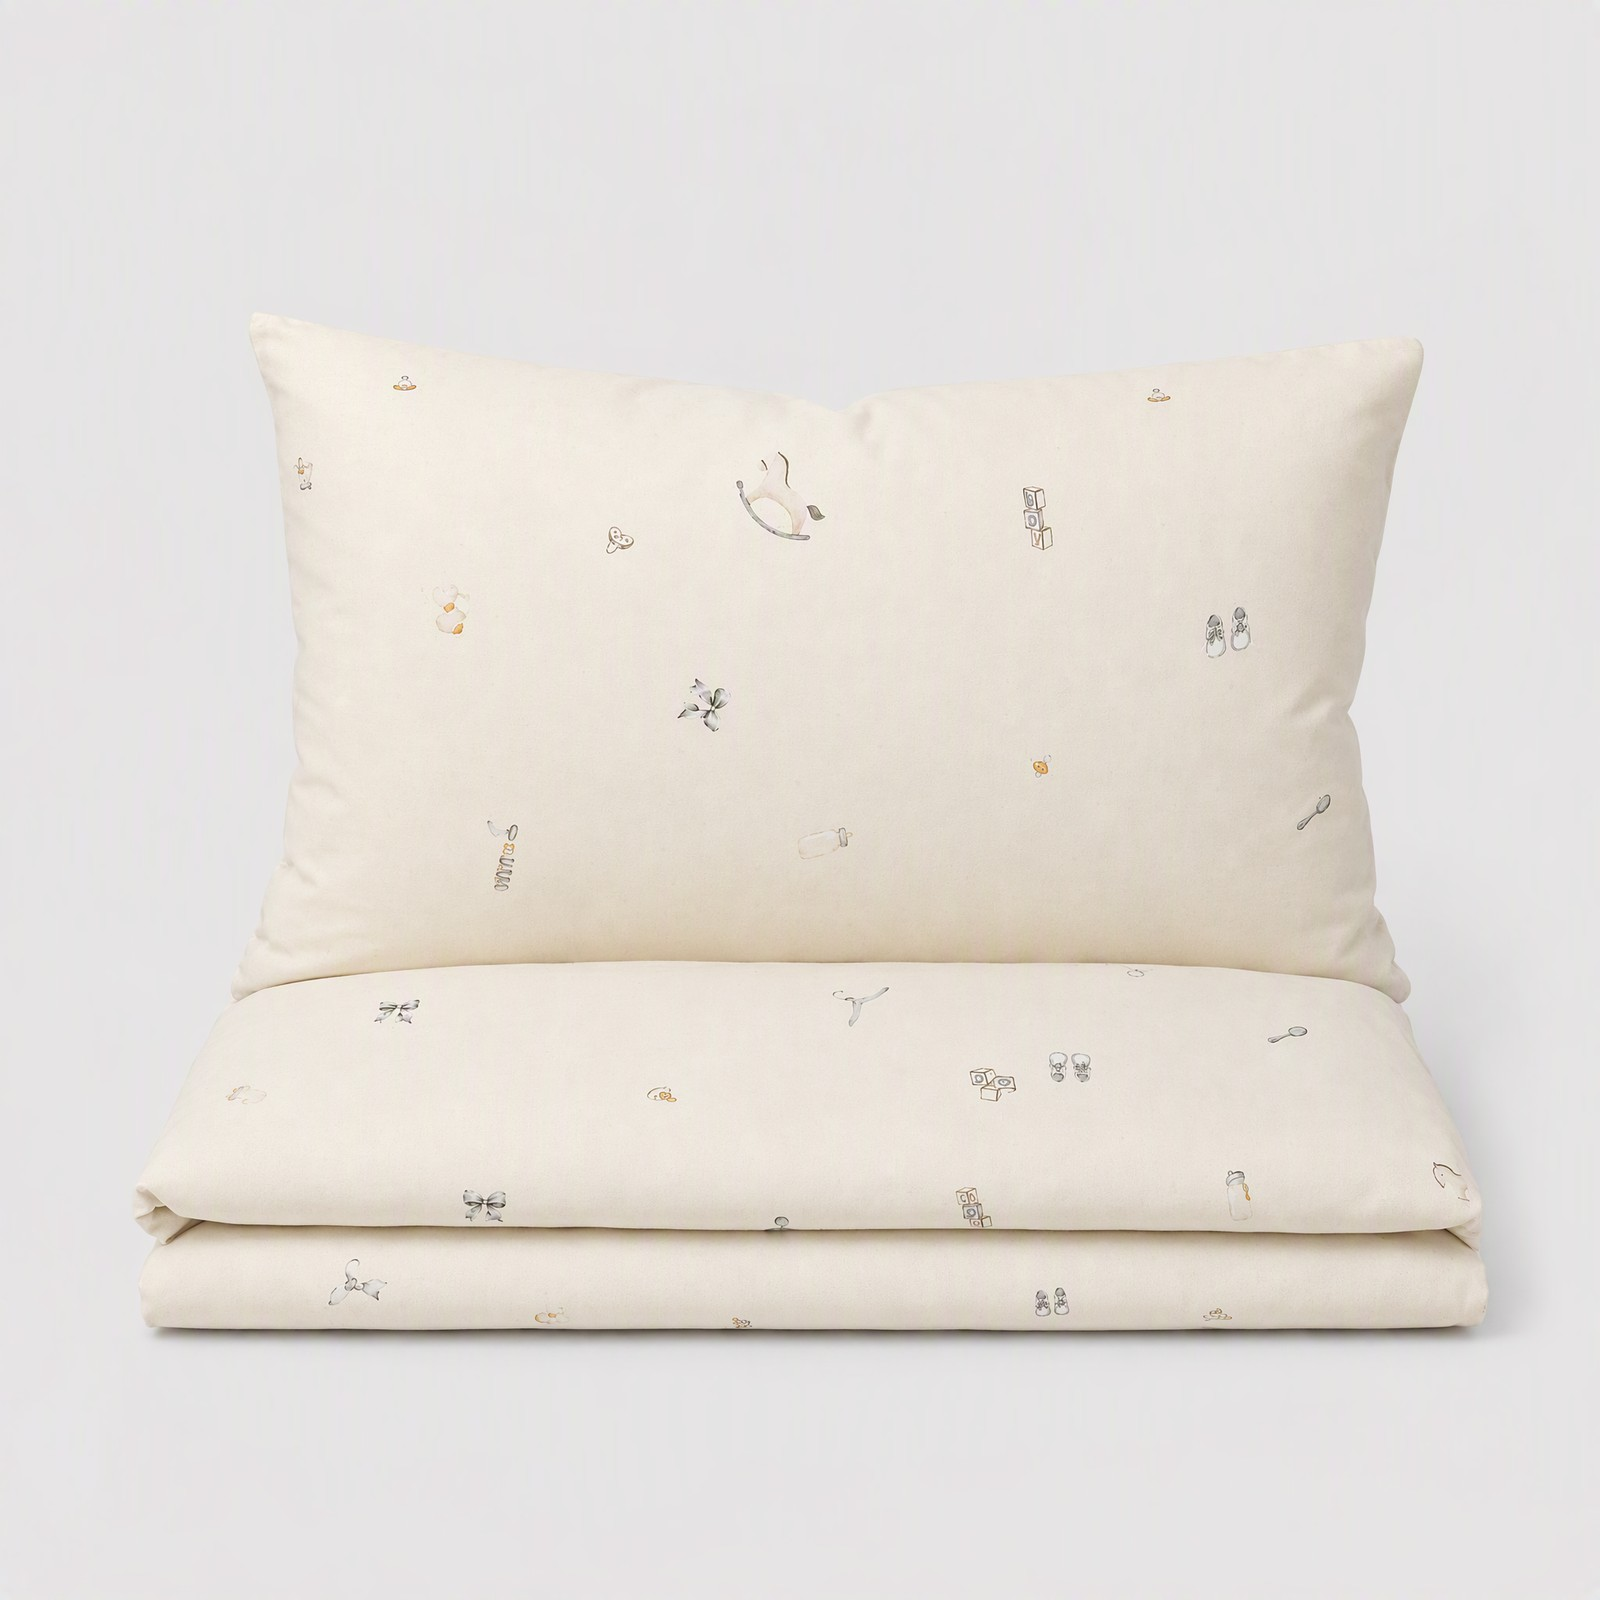
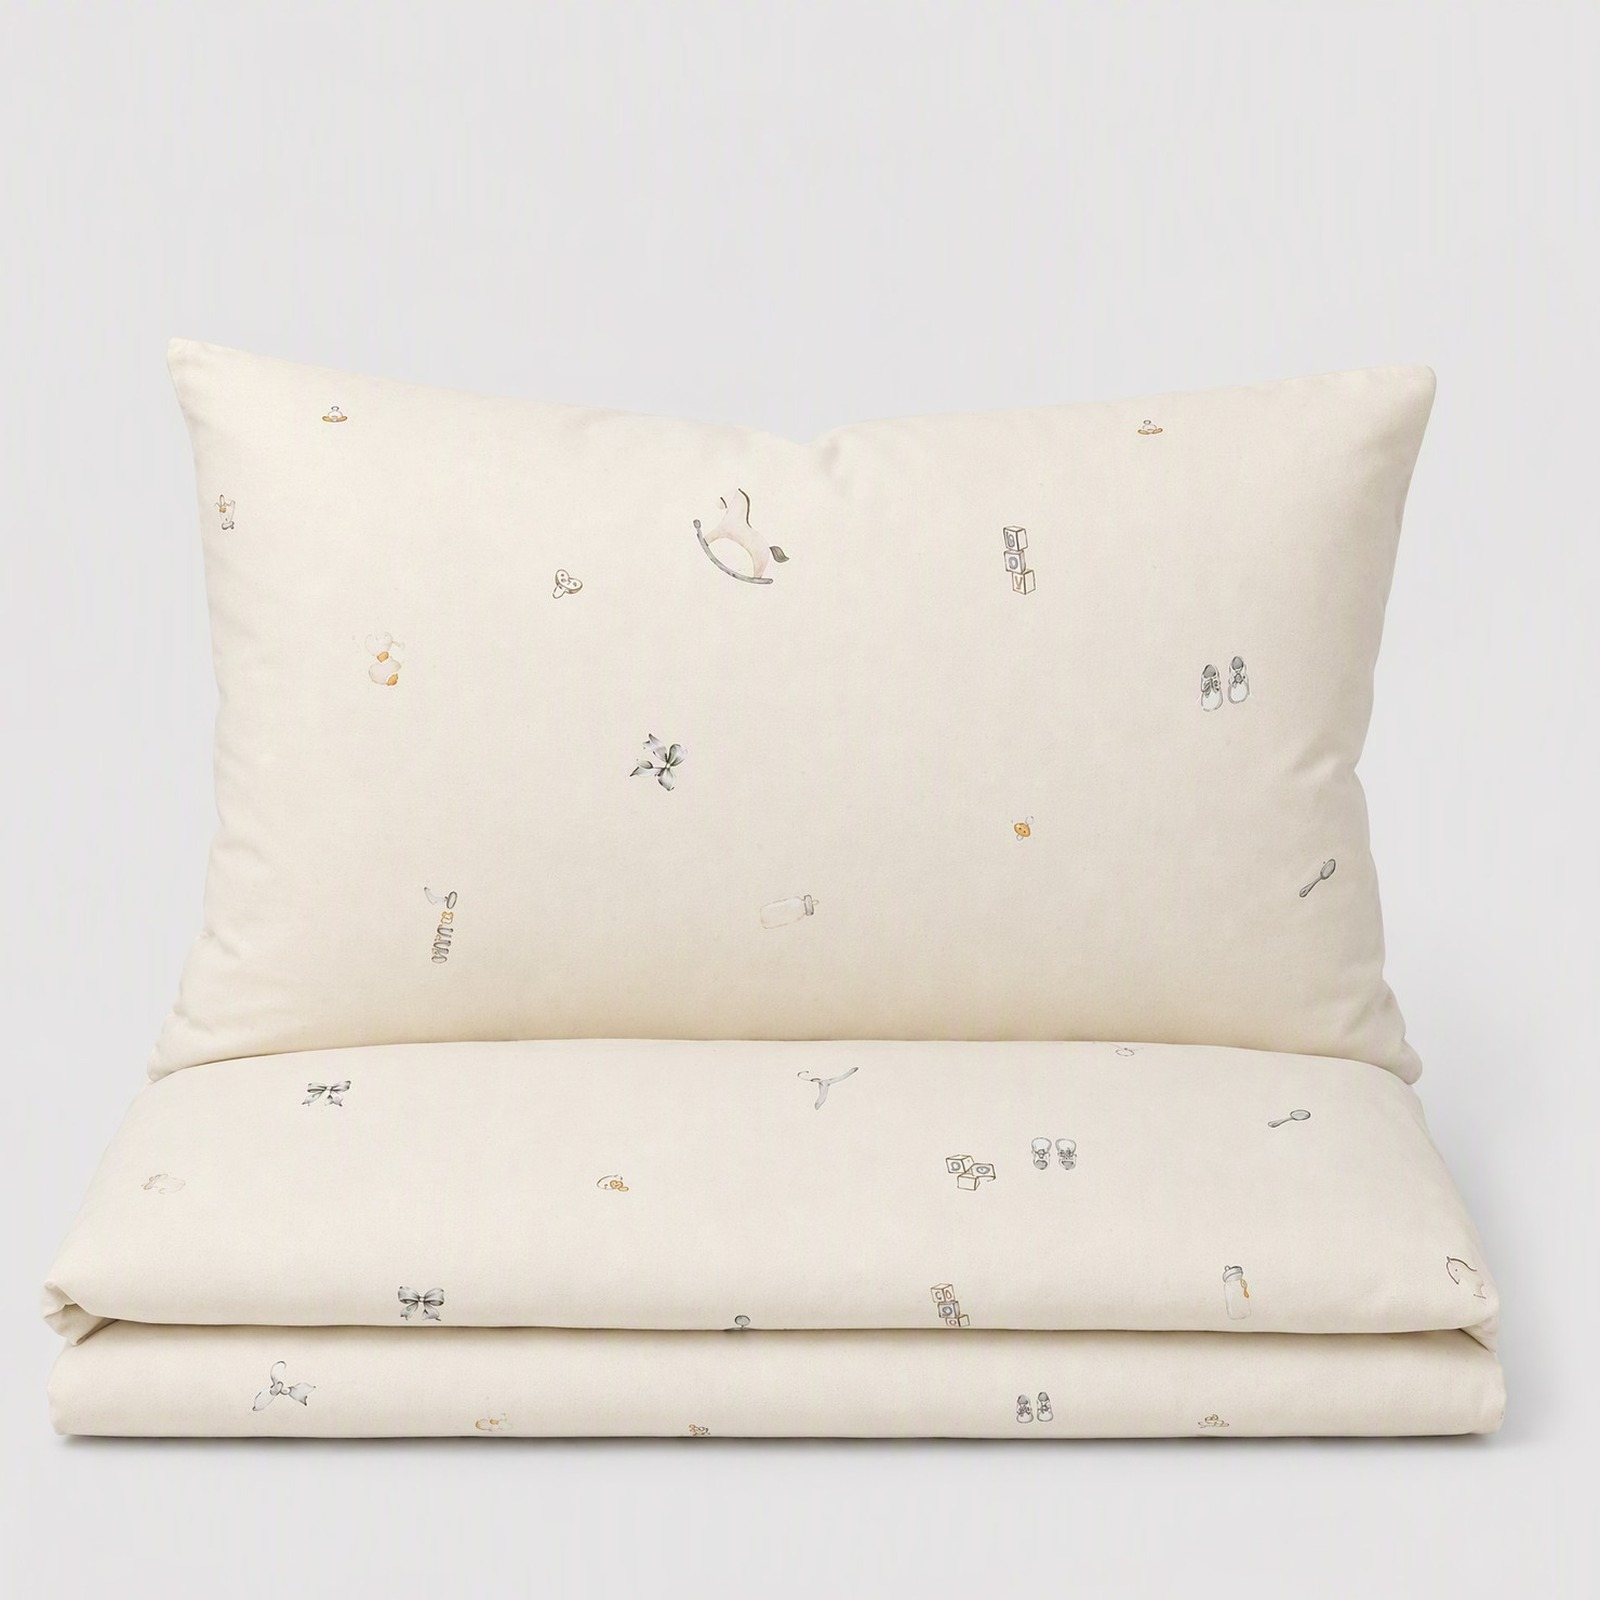
Toddler bedding: resolve Zala's open comments — fabric/material macros for Spacio, Unicorn, Fairy, Hearty (with pink reverse), correct Unicorn reverse dots; Spacio entry double fold; Softi entry sized to match Hearty

diff --git a/otroska-24797-hearty-100x140-40x60.html b/otroska-24797-hearty-100x140-40x60.html
@@ -24,7 +24,7 @@
 </style></head>
 <body><header><div class="eyebrow">Vitapur · Otroška posteljnina</div><h1>Posteljnina Hearty 100x140 40x60</h1><p>SKU 24797 · 3 slik · <a href="https://www.vitapur.si/spalnica/posteljnina/vitapur-svilanit-bombazna-posteljnina-za-malcke-hearty/" target="_blank" rel="noopener">originalni izdelek na vitapur.si &rarr;</a></p><a class="back" href="kat-otroska-posteljnina.html">&larr; Vsa otroška posteljnina</a></header>
 <div class="grid">
-<figure><a href="img/otroska-24797-hearty-100x140-40x60/01_entry_v4.jpg" target="_blank"><img src="img/otroska-24797-hearty-100x140-40x60/01_entry_v4.jpg" alt="ENTRY" loading="lazy"></a><figcaption><span class="num">01<span class="hero-tag">MAIN</span></span><div class="cap">ENTRY — vzglavnik na zloženi odeji, dvojni pregib</div></figcaption></figure><figure><a href="img/otroska-24797-hearty-100x140-40x60/02_ps01_v2.jpg" target="_blank"><img src="img/otroska-24797-hearty-100x140-40x60/02_ps01_v2.jpg" alt="PHOTOSTORY 1 — V2" loading="lazy"></a><figcaption><span class="num">02<span class="hero-tag">NOVO</span></span><div class="cap">PHOTOSTORY 1 — obe strani prevleke (roza spodnja stran), večji srčki po referenci</div></figcaption></figure><figure><a href="img/otroska-24797-hearty-100x140-40x60/03_ps02_v2.jpg" target="_blank"><img src="img/otroska-24797-hearty-100x140-40x60/03_ps02_v2.jpg" alt="PHOTOSTORY 2 — V2" loading="lazy"></a><figcaption><span class="num">03<span class="hero-tag">NOVO</span></span><div class="cap">PHOTOSTORY 2 — stajica 100×140 (crib), pravi vzorec in barve, lepša scena</div></figcaption></figure><figure><video controls preload="none" poster="img/otroska-24797-hearty-100x140-40x60/video_ad_8s_poster.jpg" src="img/otroska-24797-hearty-100x140-40x60/video_ad_8s.mp4" style="width:100%;aspect-ratio:16/9;display:block;background:#000"></video><figcaption><span class="num">VIDEO<span class="hero-tag">NOVO</span></span><div class="cap">Oglasni video — 8 s, štirje kadri (Kling 3 multi-shot)</div></figcaption></figure>
+<figure><a href="img/otroska-24797-hearty-100x140-40x60/01_entry_v4.jpg" target="_blank"><img src="img/otroska-24797-hearty-100x140-40x60/01_entry_v4.jpg" alt="ENTRY" loading="lazy"></a><figcaption><span class="num">01<span class="hero-tag">MAIN</span></span><div class="cap">ENTRY — vzglavnik na zloženi odeji, dvojni pregib</div></figcaption></figure><figure><a href="img/otroska-24797-hearty-100x140-40x60/02_ps01_v3.jpg" target="_blank"><img src="img/otroska-24797-hearty-100x140-40x60/02_ps01_v3.jpg" alt="PHOTOSTORY 1 — obe strani: leopard srčki + roza s srčki" loading="lazy"></a><figcaption><span class="num">02<span class="hero-tag">NOVO</span></span><div class="cap">PHOTOSTORY 1 — obe strani: leopard srčki + roza s srčki</div></figcaption></figure><figure><a href="img/otroska-24797-hearty-100x140-40x60/03_ps02_v2.jpg" target="_blank"><img src="img/otroska-24797-hearty-100x140-40x60/03_ps02_v2.jpg" alt="PHOTOSTORY 2 — V2" loading="lazy"></a><figcaption><span class="num">03<span class="hero-tag">NOVO</span></span><div class="cap">PHOTOSTORY 2 — stajica 100×140 (crib), pravi vzorec in barve, lepša scena</div></figcaption></figure><figure><video controls preload="none" poster="img/otroska-24797-hearty-100x140-40x60/video_ad_8s_poster.jpg" src="img/otroska-24797-hearty-100x140-40x60/video_ad_8s.mp4" style="width:100%;aspect-ratio:16/9;display:block;background:#000"></video><figcaption><span class="num">VIDEO<span class="hero-tag">NOVO</span></span><div class="cap">Oglasni video — 8 s, štirje kadri (Kling 3 multi-shot)</div></figcaption></figure>
 </div>
 <footer>Koncept galerije — julij 2026 · Vitapur · komentar vpiši pod posamezno sliko</footer>
 <script src="comments.js" defer></script>

diff --git a/otroska-24794-unicorn-140x200-50x70.html b/otroska-24794-unicorn-140x200-50x70.html
@@ -24,7 +24,7 @@
 </style></head>
 <body><header><div class="eyebrow">Vitapur · Otroška posteljnina</div><h1>Posteljnina Unicorn 140x200 50x70</h1><p>SKU 24794 · 3 slik · <a href="https://www.vitapur.si/spalnica/posteljnina/vitapur-svilanit-otroska-bombazna-posteljnina-unicorn/" target="_blank" rel="noopener">originalni izdelek na vitapur.si &rarr;</a></p><a class="back" href="kat-otroska-posteljnina.html">&larr; Vsa otroška posteljnina</a></header>
 <div class="grid">
-<figure><a href="img/otroska-24794-unicorn-140x200-50x70/01_entry_v4.jpg" target="_blank"><img src="img/otroska-24794-unicorn-140x200-50x70/01_entry_v4.jpg" alt="ENTRY" loading="lazy"></a><figcaption><span class="num">01<span class="hero-tag">MAIN</span></span><div class="cap">ENTRY — vzglavnik na zloženi odeji, dvojni pregib</div></figcaption></figure><figure><a href="img/otroska-24794-unicorn-140x200-50x70/02_ps01_v2.jpg" target="_blank"><img src="img/otroska-24794-unicorn-140x200-50x70/02_ps01_v2.jpg" alt="PHOTOSTORY 1 — detajl blaga, samorogi, mavrice, gradovi" loading="lazy"></a><figcaption><span class="num">02<span class="hero-tag">NOVO</span></span><div class="cap">PHOTOSTORY 1 — detajl blaga, samorogi, mavrice, gradovi</div></figcaption></figure><figure><a href="img/otroska-24794-unicorn-140x200-50x70/03_ps02_v2.jpg" target="_blank"><img src="img/otroska-24794-unicorn-140x200-50x70/03_ps02_v2.jpg" alt="PHOTOSTORY 2 — otroška soba 140×200, pravi motivi in ton" loading="lazy"></a><figcaption><span class="num">03<span class="hero-tag">NOVO</span></span><div class="cap">PHOTOSTORY 2 — otroška soba 140×200, pravi motivi in ton</div></figcaption></figure>
+<figure><a href="img/otroska-24794-unicorn-140x200-50x70/01_entry_v4.jpg" target="_blank"><img src="img/otroska-24794-unicorn-140x200-50x70/01_entry_v4.jpg" alt="ENTRY" loading="lazy"></a><figcaption><span class="num">01<span class="hero-tag">MAIN</span></span><div class="cap">ENTRY — vzglavnik na zloženi odeji, dvojni pregib</div></figcaption></figure><figure><a href="img/otroska-24794-unicorn-140x200-50x70/02_ps01_v3.jpg" target="_blank"><img src="img/otroska-24794-unicorn-140x200-50x70/02_ps01_v3.jpg" alt="PHOTOSTORY 1 — detajl blaga, prava barva in material" loading="lazy"></a><figcaption><span class="num">02<span class="hero-tag">NOVO</span></span><div class="cap">PHOTOSTORY 1 — detajl blaga, prava barva in material</div></figcaption></figure><figure><a href="img/otroska-24794-unicorn-140x200-50x70/03_ps02_v3.jpg" target="_blank"><img src="img/otroska-24794-unicorn-140x200-50x70/03_ps02_v3.jpg" alt="PHOTOSTORY 2 — soba, hrbtna stran s pravimi pikami" loading="lazy"></a><figcaption><span class="num">03<span class="hero-tag">NOVO</span></span><div class="cap">PHOTOSTORY 2 — soba, hrbtna stran s pravimi pikami</div></figcaption></figure>
 <figure><video controls preload="none" poster="img/otroska-24794-unicorn-140x200-50x70/video_ad_8s_poster.jpg" src="img/otroska-24794-unicorn-140x200-50x70/video_ad_8s.mp4" style="width:100%;aspect-ratio:16/9;display:block;background:#000"></video><figcaption><span class="num">VIDEO<span class="hero-tag">NOVO</span></span><div class="cap">Oglasni video — 8 s, štirje kadri (Kling 3 multi-shot)</div></figcaption></figure></div>
 <footer>Koncept galerije — julij 2026 · Vitapur · komentar vpiši pod posamezno sliko</footer>
 <script src="comments.js" defer></script>

diff --git a/otroska-24795-fairy-140x200-50x70.html b/otroska-24795-fairy-140x200-50x70.html
@@ -24,7 +24,7 @@
 </style></head>
 <body><header><div class="eyebrow">Vitapur · Otroška posteljnina</div><h1>Posteljnina Fairy 140x200 50x70</h1><p>SKU 24795 · 3 slik · <a href="https://www.vitapur.si/spalnica/posteljnina/vitapur-svilanit-otroska-bombazna-posteljnina-fairy/" target="_blank" rel="noopener">originalni izdelek na vitapur.si &rarr;</a></p><a class="back" href="kat-otroska-posteljnina.html">&larr; Vsa otroška posteljnina</a></header>
 <div class="grid">
-<figure><a href="img/otroska-24795-fairy-140x200-50x70/01_entry_v4.jpg" target="_blank"><img src="img/otroska-24795-fairy-140x200-50x70/01_entry_v4.jpg" alt="ENTRY" loading="lazy"></a><figcaption><span class="num">01<span class="hero-tag">MAIN</span></span><div class="cap">ENTRY — vzglavnik na zloženi odeji, dvojni pregib</div></figcaption></figure><figure><a href="img/otroska-24795-fairy-140x200-50x70/02_ps01_v2.jpg" target="_blank"><img src="img/otroska-24795-fairy-140x200-50x70/02_ps01_v2.jpg" alt="PHOTOSTORY 1 — detajl blaga, pravi vilinski motivi" loading="lazy"></a><figcaption><span class="num">02<span class="hero-tag">NOVO</span></span><div class="cap">PHOTOSTORY 1 — detajl blaga, pravi vilinski motivi</div></figcaption></figure><figure><a href="img/otroska-24795-fairy-140x200-50x70/03_ps02_v2.jpg" target="_blank"><img src="img/otroska-24795-fairy-140x200-50x70/03_ps02_v2.jpg" alt="PHOTOSTORY 2 — otroška soba 140×200, prava barva in motivi" loading="lazy"></a><figcaption><span class="num">03<span class="hero-tag">NOVO</span></span><div class="cap">PHOTOSTORY 2 — otroška soba 140×200, prava barva in motivi</div></figcaption></figure>
+<figure><a href="img/otroska-24795-fairy-140x200-50x70/01_entry_v4.jpg" target="_blank"><img src="img/otroska-24795-fairy-140x200-50x70/01_entry_v4.jpg" alt="ENTRY" loading="lazy"></a><figcaption><span class="num">01<span class="hero-tag">MAIN</span></span><div class="cap">ENTRY — vzglavnik na zloženi odeji, dvojni pregib</div></figcaption></figure><figure><a href="img/otroska-24795-fairy-140x200-50x70/02_ps01_v3.jpg" target="_blank"><img src="img/otroska-24795-fairy-140x200-50x70/02_ps01_v3.jpg" alt="PHOTOSTORY 1 — detajl blaga, gladka tkanina" loading="lazy"></a><figcaption><span class="num">02<span class="hero-tag">NOVO</span></span><div class="cap">PHOTOSTORY 1 — detajl blaga, gladka tkanina</div></figcaption></figure><figure><a href="img/otroska-24795-fairy-140x200-50x70/03_ps02_v2.jpg" target="_blank"><img src="img/otroska-24795-fairy-140x200-50x70/03_ps02_v2.jpg" alt="PHOTOSTORY 2 — otroška soba 140×200, prava barva in motivi" loading="lazy"></a><figcaption><span class="num">03<span class="hero-tag">NOVO</span></span><div class="cap">PHOTOSTORY 2 — otroška soba 140×200, prava barva in motivi</div></figcaption></figure>
 <figure><video controls preload="none" poster="img/otroska-24795-fairy-140x200-50x70/video_ad_8s_poster.jpg" src="img/otroska-24795-fairy-140x200-50x70/video_ad_8s.mp4" style="width:100%;aspect-ratio:16/9;display:block;background:#000"></video><figcaption><span class="num">VIDEO<span class="hero-tag">NOVO</span></span><div class="cap">Oglasni video — 8 s, štirje kadri (Kling 3 multi-shot)</div></figcaption></figure></div>
 <footer>Koncept galerije — julij 2026 · Vitapur · komentar vpiši pod posamezno sliko</footer>
 <script src="comments.js" defer></script>

diff --git a/otroska-24793-spacio-140x200-50x70.html b/otroska-24793-spacio-140x200-50x70.html
@@ -24,7 +24,7 @@
 </style></head>
 <body><header><div class="eyebrow">Vitapur · Otroška posteljnina</div><h1>Posteljnina Spacio 140x200 50x70</h1><p>SKU 24793 · 3 slik · <a href="https://www.vitapur.si/spalnica/posteljnina/vitapur-svilanit-otroska-bombazna-posteljnina-spacio/" target="_blank" rel="noopener">originalni izdelek na vitapur.si &rarr;</a></p><a class="back" href="kat-otroska-posteljnina.html">&larr; Vsa otroška posteljnina</a></header>
 <div class="grid">
-<figure><a href="img/otroska-24793-spacio-140x200-50x70/01_entry_v4.jpg" target="_blank"><img src="img/otroska-24793-spacio-140x200-50x70/01_entry_v4.jpg" alt="ENTRY" loading="lazy"></a><figcaption><span class="num">01<span class="hero-tag">MAIN</span></span><div class="cap">ENTRY — vzglavnik na zloženi odeji, dvojni pregib</div></figcaption></figure><figure><a href="img/otroska-24793-spacio-140x200-50x70/02_ps01_v2.jpg" target="_blank"><img src="img/otroska-24793-spacio-140x200-50x70/02_ps01_v2.jpg" alt="PHOTOSTORY 1 — detajl blaga, rakete, sateliti, komete" loading="lazy"></a><figcaption><span class="num">02<span class="hero-tag">NOVO</span></span><div class="cap">PHOTOSTORY 1 — detajl blaga, rakete, sateliti, komete</div></figcaption></figure><figure><a href="img/otroska-24793-spacio-140x200-50x70/03_ps02_v2.jpg" target="_blank"><img src="img/otroska-24793-spacio-140x200-50x70/03_ps02_v2.jpg" alt="PHOTOSTORY 2 — otroška soba 140×200, pravi motivi" loading="lazy"></a><figcaption><span class="num">03<span class="hero-tag">NOVO</span></span><div class="cap">PHOTOSTORY 2 — otroška soba 140×200, pravi motivi</div></figcaption></figure>
+<figure><a href="img/otroska-24793-spacio-140x200-50x70/01_entry_v4.jpg" target="_blank"><img src="img/otroska-24793-spacio-140x200-50x70/01_entry_v4.jpg" alt="ENTRY" loading="lazy"></a><figcaption><span class="num">01<span class="hero-tag">MAIN</span></span><div class="cap">ENTRY — vzglavnik na zloženi odeji, dvojni pregib</div></figcaption></figure><figure><a href="img/otroska-24793-spacio-140x200-50x70/02_ps01_v3.jpg" target="_blank"><img src="img/otroska-24793-spacio-140x200-50x70/02_ps01_v3.jpg" alt="PHOTOSTORY 1 — detajl blaga, gladek bombaž" loading="lazy"></a><figcaption><span class="num">02<span class="hero-tag">NOVO</span></span><div class="cap">PHOTOSTORY 1 — detajl blaga, gladek bombaž</div></figcaption></figure><figure><a href="img/otroska-24793-spacio-140x200-50x70/03_ps02_v2.jpg" target="_blank"><img src="img/otroska-24793-spacio-140x200-50x70/03_ps02_v2.jpg" alt="PHOTOSTORY 2 — otroška soba 140×200, pravi motivi" loading="lazy"></a><figcaption><span class="num">03<span class="hero-tag">NOVO</span></span><div class="cap">PHOTOSTORY 2 — otroška soba 140×200, pravi motivi</div></figcaption></figure>
 <figure><video controls preload="none" poster="img/otroska-24793-spacio-140x200-50x70/video_ad_8s_poster.jpg" src="img/otroska-24793-spacio-140x200-50x70/video_ad_8s.mp4" style="width:100%;aspect-ratio:16/9;display:block;background:#000"></video><figcaption><span class="num">VIDEO<span class="hero-tag">NOVO</span></span><div class="cap">Oglasni video — 8 s, štirje kadri (Kling 3 multi-shot)</div></figcaption></figure></div>
 <footer>Koncept galerije — julij 2026 · Vitapur · komentar vpiši pod posamezno sliko</footer>
 <script src="comments.js" defer></script>
